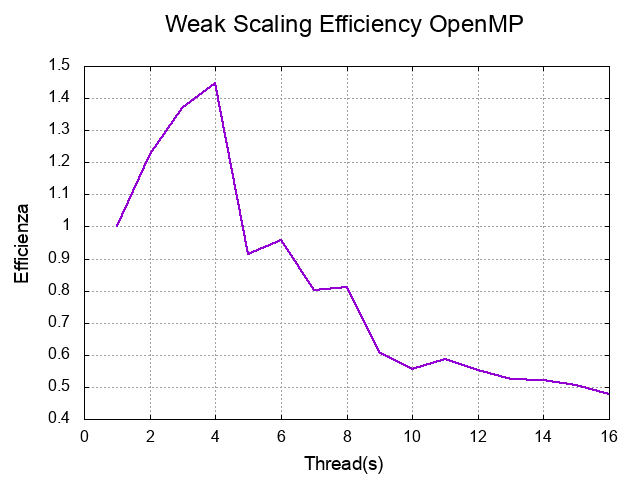
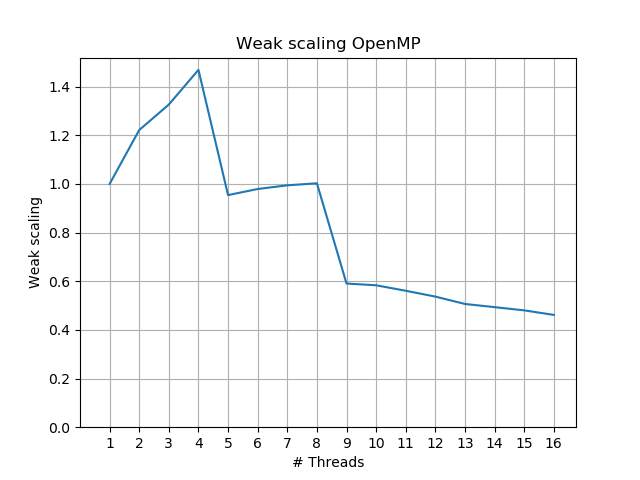
plot: save to file; add matplotlib version of omp weak graph

diff --git a/project/src/plot-timings.py b/project/src/plot-timings.py
@@ -1,7 +1,6 @@
 #!/usr/bin/env python3
 import numpy as np
 import matplotlib.pyplot as plt
-import csv
 
 in_file = "./data/omp-timings-py.csv"
 out_file = "./graphs/omp-timings.png"
@@ -30,4 +29,7 @@ plt.ylim(bottom=0)
 # axis ticks
 plt.xticks(per_data['THREAD'])
 
-plt.show()
+# plt.show()
+
+# save to file
+plt.savefig(out_file)

diff --git a/project/src/plot-weak.py b/project/src/plot-weak.py
@@ -27,7 +27,7 @@ plt.ylim(bottom=0)
 # axis ticks
 plt.xticks(per_data['p'])
 
-plt.show()  # DEBUG
+# plt.show()  # DEBUG
 
 # save to file
-# plt.savefig(out_file)
+plt.savefig(out_file)
